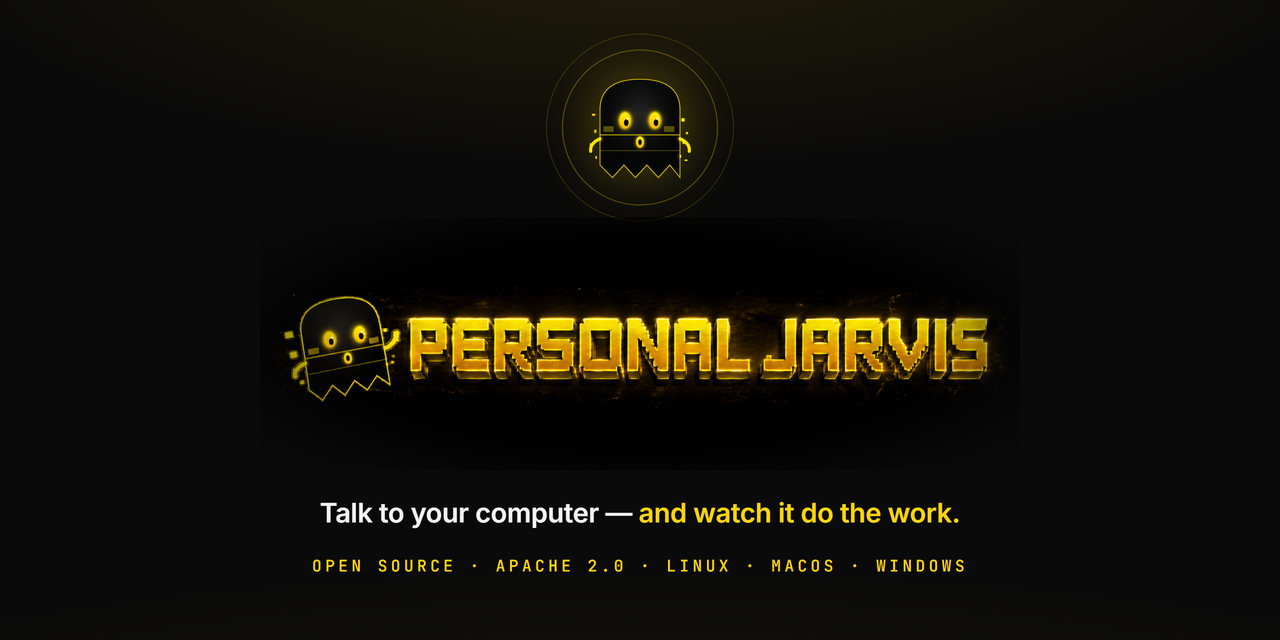
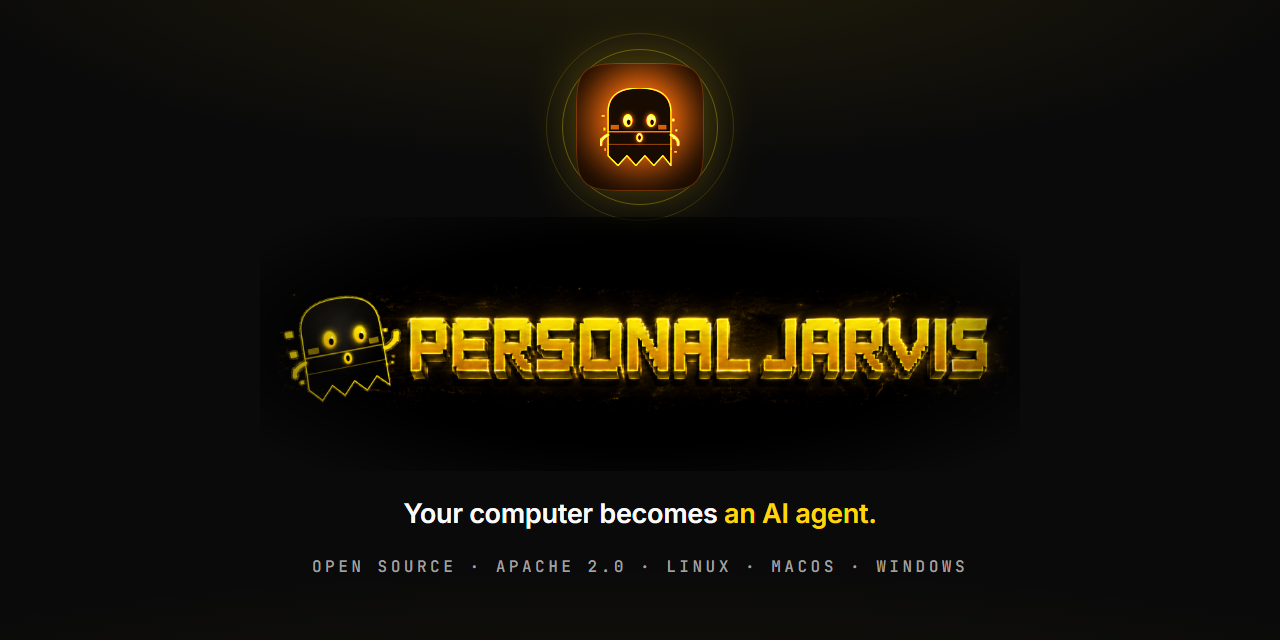
docs(readme): present Jarvis as the agent that runs your computer
Rewrite the README opening, the welcome page, the social preview and the
package, CLI and Linux desktop-entry descriptions around one line: your
computer becomes an AI agent that coordinates apps, tools, models and
other agents. Adds the request-to-result diagram and brings the public
docs manifest back in line (new welcome summary; the Screen Context page
now points at the Appshots view that replaced its deleted card).

diff --git a/assets/brand/social-preview.html b/assets/brand/social-preview.html
@@ -19,8 +19,8 @@
   .glow {
     position: absolute; inset: 0;
     background:
-      radial-gradient(ellipse 90% 55% at 50% -8%, rgba(61, 139, 255, 0.10), transparent 62%),
-      radial-gradient(ellipse 120% 40% at 50% 112%, rgba(61, 139, 255, 0.04), transparent 60%);
+      radial-gradient(ellipse 90% 55% at 50% -8%, rgba(255, 214, 10, 0.10), transparent 62%),
+      radial-gradient(ellipse 120% 40% at 50% 112%, rgba(255, 214, 10, 0.04), transparent 60%);
   }
   .card {
     position: relative;
@@ -32,13 +32,13 @@
   .mascot-wrap { position: relative; width: 128px; height: 128px; }
   .mascot-wrap .ring {
     position: absolute; border-radius: 50%;
-    border: 1px solid rgba(250, 250, 250, 0.32);
+    border: 1px solid rgba(255, 214, 10, 0.32);
   }
   .ring.r1 { inset: -14px; }
-  .ring.r2 { inset: -30px; border-color: rgba(250, 250, 250, 0.16); }
+  .ring.r2 { inset: -30px; border-color: rgba(255, 214, 10, 0.16); }
   .mascot {
     width: 128px; height: 128px; object-fit: contain;
-    filter: drop-shadow(0 0 26px rgba(61, 139, 255, 0.30));
+    filter: sepia(1) saturate(8) hue-rotate(354deg) drop-shadow(0 0 26px rgba(255, 214, 10, 0.30));
   }
   .wordmark {
     width: 760px; display: block;
@@ -53,7 +53,7 @@
     color: #FAFAFA; letter-spacing: -0.01em;
     text-align: center;
   }
-  .tagline .accent { color: #3D8BFF; }
+  .tagline .accent { color: #FFD60A; }
   .meta {
     font-family: 'JetBrains Mono', monospace;
     font-size: 16px; font-weight: 500;
@@ -71,7 +71,7 @@
       <img class="mascot" src="../icons/jarvis-gigi-256.png" alt="" />
     </div>
     <img class="wordmark" src="banner.png" alt="Personal Jarvis" />
-    <div class="tagline">Talk to your computer — <span class="accent">and watch it do the work.</span></div>
+    <div class="tagline">Your computer becomes <span class="accent">an AI agent.</span></div>
     <div class="meta">OPEN SOURCE · APACHE 2.0 · LINUX · MACOS · WINDOWS</div>
   </div>
 </body>

diff --git a/jarvis/ui/icon_utils.py b/jarvis/ui/icon_utils.py
@@ -1605,7 +1605,7 @@ def ensure_linux_desktop_entry(applications_dir: Path | None = None) -> bool:
             "[Desktop Entry]\n"
             "Type=Application\n"
             f"Name={escape_value(APP_DISPLAY_NAME)}\n"
-            "Comment=Voice-driven meta-orchestrator\n"
+            "Comment=Turn your computer into an AI agent\n"
             f"Exec={exec_value(sys.executable, ('-m', _LAUNCHER_MODULE, *_LAUNCHER_ARGS))}\n"
             f"Path={escape_value(str(PROJECT_ROOT))}\n"
             "Terminal=false\n"

diff --git a/jarvis/__main__.py b/jarvis/__main__.py
@@ -52,7 +52,7 @@ if TYPE_CHECKING:
 def _build_parser() -> argparse.ArgumentParser:
     parser = argparse.ArgumentParser(
         prog="jarvis",
-        description="Personal Jarvis — voice-driven meta-orchestrator.",
+        description="Personal Jarvis — turn your computer into an AI agent.",
     )
     parser.add_argument("--version", action="version", version=f"%(prog)s {__version__}")
     parser.add_argument("--wizard", action="store_true", help="Restart the setup wizard.")

diff --git a/packaging/linux/make_desktop_entry.py b/packaging/linux/make_desktop_entry.py
@@ -41,7 +41,7 @@ from jarvis.core.branding import (  # noqa: E402
 from jarvis.core.desktop_entry import escape_value, exec_value  # noqa: E402
 
 #: Same one-line summary the source install's menu entry uses.
-COMMENT = "Voice-driven meta-orchestrator"
+COMMENT = "Turn your computer into an AI agent"
 
 #: Freedesktop main category. "Utility" is what the source install already
 #: registers; changing it would move the app in the menu between install kinds.

diff --git a/jarvis/autostart/linux.py b/jarvis/autostart/linux.py
@@ -125,7 +125,7 @@ def _render(spec: LaunchSpec) -> str:
         "[Desktop Entry]\n"
         "Type=Application\n"
         f"Name={escape_value(_APP_NAME)}\n"
-        "Comment=Voice-driven meta-orchestrator (autostart)\n"
+        "Comment=Turn your computer into an AI agent (autostart)\n"
         f"Exec={_exec_value(spec)}\n"
         f"Path={escape_value(spec.working_dir)}\n"
         "Terminal=false\n"

diff --git a/README.md b/README.md
@@ -1,25 +1,88 @@
+# Personal Jarvis
+
+## Your computer becomes an AI agent.
+
+Personal Jarvis is an open-source desktop app that connects your computer, AI
+models, tools, services, and specialized agents. Give it a task in chat or by
+voice. Jarvis can use the browser and desktop, call connected tools, delegate
+longer work, and bring the result back to one workspace.
+
 <p align="center">
-  <img src="https://github.com/PersonalJarvis/PersonalJarvis/raw/main/assets/brand/banner.png" alt="Personal Jarvis" width="860" />
+  <a href="https://pypi.org/project/personal-jarvis/"><img alt="PyPI" src="https://img.shields.io/pypi/v/personal-jarvis?labelColor=0A0A0A&amp;color=F7F7F4" /></a>
+  <a href="https://github.com/PersonalJarvis/PersonalJarvis/blob/main/LICENSE"><img alt="Apache 2.0" src="https://img.shields.io/badge/License-Apache_2.0-F7F7F4?labelColor=0A0A0A" /></a>
+  <a href="https://github.com/PersonalJarvis/PersonalJarvis/actions/workflows/ci.yml"><img alt="CI" src="https://github.com/PersonalJarvis/PersonalJarvis/actions/workflows/ci.yml/badge.svg" /></a>
 </p>
 
-<h3 align="center">Your AI assistant, built for the agentic era.</h3>
+![Flow from a user request through Jarvis to the computer, browser, apps, agents, models, and services, then back as a result with run history.](assets/brand/request-to-result.svg)
+
+**Why it is different:** Jarvis coordinates the tools you already have. A request
+can move from voice or chat to [computer use](#computer-use-and-connected-channels),
+[Codex or Claude Code](#coding-workspace), [local or hosted models](#local-models),
+[plugins and MCP](#plugins-skills-and-mcp), or a [background agent](#jarvis-agents).
+[Memory](#memory-and-knowledge), [agent learning](#jarvis-agents), and
+[routines](#scheduled-work-and-workflows) provide context and recurring work.
+You can inspect actions, approvals, and output in the app. What runs depends on
+your setup, permissions, and the tools you connect.
+
+**Try it:** [Install on Windows, macOS, or Linux](#install) ·
+[See the app and demos](#see-it-in-action) ·
+[Read the first-run guide](#your-first-steps-in-the-desktop-app)
+
+## Install
+
+**Windows — PowerShell**
+
+```powershell
+irm https://raw.githubusercontent.com/PersonalJarvis/PersonalJarvis/main/install/install.ps1 | iex
+```
+
+**macOS and Linux**
+
+```bash
+curl -fsSL https://raw.githubusercontent.com/PersonalJarvis/PersonalJarvis/main/install/install.sh | bash
+```
+
+The installer checks Python 3.11+ and Git, offers to install missing prerequisites
+through the host package manager, installs the applicable desktop components,
+registers the desktop launcher, and opens the app. Language, wake phrase, and provider setup happen in the app.
+OS permissions and hardware capabilities affect voice and desktop control.
+Re-running the installer updates an existing installation.
+
+The idea is simple: one place on your computer where you say what you need, and it happens. You talk to Jarvis or type to it, and it works out whether to just answer, do something on your computer for you, or pass the job to an agent that keeps at it while you get on with your day. You can always see what it's doing, and it asks before it touches anything that matters.
+
+It runs on your own machine with whichever model you like, local ones included, and it's free. There's no account to create, and nothing sends your data anywhere you didn't connect yourself.
+
+## See it in action
+
+The [desktop screenshot](assets/screenshots/home-2026-09-09.webp) shows the
+workspace; the [agent demo](assets/demo/readme-2026-09/jarvis-agents-v4.mp4)
+shows a brief, progress, and output. The demos are **illustrative interface
+recreations**, not recordings of a completed live task or timing benchmarks.
+The [demo source and still previews](scripts/readme-video/README.md) explain
+what is shown.
 
 <p align="center">
-  <a href="https://github.com/PersonalJarvis/PersonalJarvis/blob/main/LICENSE"><img src="https://img.shields.io/badge/license-Apache--2.0-666666?labelColor=333333" alt="Apache 2.0 license" /></a>
-  <a href="https://github.com/PersonalJarvis/PersonalJarvis/releases/latest"><img src="https://img.shields.io/github/v/release/PersonalJarvis/PersonalJarvis?label=release&labelColor=333333&color=666666" alt="latest release" /></a>
-  <a href="https://github.com/PersonalJarvis/PersonalJarvis/stargazers"><img src="https://img.shields.io/github/stars/PersonalJarvis/PersonalJarvis?labelColor=333333&color=666666&logo=github" alt="GitHub stars" /></a>
-  <a href="https://x.com/PersonalJarvis"><img src="https://img.shields.io/badge/follow-%40PersonalJarvis-000000?logo=x&logoColor=white" alt="follow @PersonalJarvis on X" /></a>
+  <a href="assets/demo/readme-2026-09/jarvis-agents-v4.mp4">
+    <img src="assets/demo/readme-2026-09/jarvis-agents-v4.png" alt="Illustrative Jarvis Agents workspace showing a brief, agent activity, and a resulting plan" width="850" />
+  </a>
 </p>
 
-Personal Jarvis is an open-source AI assistant that runs on your own computer and that you simply talk to. Say your wake phrase and it answers out loud, works your browser and desktop apps, and runs your coding agents for you: Claude Code, Codex, OpenCode, Kimi and others sit side by side in one workspace, and you can tell any of them what to do by voice ("tell T1 to run the tests"). One app for Windows, macOS and Linux, or headless on a server.
+## One request, several ways to get it done
 
-**Voice first.** Talking is the main way you drive it. The wake phrase is detected on your own machine, and then Jarvis opens a live two-way audio session: you can interrupt it mid-sentence, and it keeps the conversation going while the actual work happens behind it. With [GPT-Live](https://github.com/PersonalJarvis/PersonalJarvis/blob/main/docs/gpt-live.md), OpenAI's realtime voice carries the conversation over WebRTC while a separate thinking model does the reasoning and the tool calls, both on the same OpenAI key and with cloud recording switched off. Gemini Live is there too. If you'd rather keep your voice at home, Jarvis installs and manages a local realtime server on your own GPU (12 GB and up) that listens, thinks through Ollama and speaks entirely on your machine, and stays warm so the next call connects right away. Whichever you pick, every action goes through the same approvals, runs exactly once even if the connection drops, and keeps going after you hang up.
+| Stage | What Jarvis connects |
+|---|---|
+| **Ask** | Start in chat or Voice Chat. Jarvis Voice separately dictates into other apps. |
+| **Act** | Use the host desktop and browser through Computer Use, or call a connected plugin, skill, CLI, or MCP tool. |
+| **Delegate** | Hand longer work to a background mission, a persistent specialist, or a Codex/Claude Code coding session when configured. Bounded parallel workers can split suitable work. |
+| **Keep context** | Use the local wiki and private agent lessons; schedule routines for recurring tasks. |
+| **Review** | Follow approvals and activity, then open the answer, file, or report in the conversation or Artifacts. |
 
-**A team of agents, not a single chatbot.** Jarvis is the one you talk to, and behind it you build a team. Each agent has its own name, instructions, memory and browser, runs its own routines on a schedule, learns from what worked in its past runs, and stops to ask you a multiple choice question when it isn't sure. You can watch them work in a small office you can walk through, and move any of them onto another computer over SSH. Coding work gets the same treatment: in the [Agentic IDE](https://github.com/PersonalJarvis/PersonalJarvis/blob/main/docs/product/extend-and-automate/agentic-ide.md) every coding agent has its own pane and, if you want, its own git worktree, and Jarvis always knows what each one is doing ("what is T2 working on?").
+The app runs on Windows, macOS, and Linux, with headless use for server-capable
+features. Desktop control needs a supported graphical session and OS permission.
+Local models and speech are optional; hosted providers and connected services
+receive the content required for their requests. See [privacy and local data](docs/product/privacy-safety-and-support/privacy-and-local-data.md).
 
-**It conducts your tools instead of replacing them.** Most AI apps want you to move into their chat and their subscription. Jarvis sits on top of what you already have: your Claude Code or Codex plan, one API key from any provider, or a local model through Ollama. It turns them into a single assistant you can talk to, and you can swap any of them without touching anything else.
-
-**How it's built.** A Python core and a React desktop app, both running locally. A small router only decides where a request goes (answer, tool, or agent) and every action passes through one executor with a risk policy (safe, monitor, ask, block), so nothing that could change your system happens without your approval, and every run is recorded. State, memory and keys stay on your machine; there is no account, no paid tier and no analytics. The whole design is in the [architecture overview](https://github.com/PersonalJarvis/PersonalJarvis/blob/main/docs/architecture-overview.md).
+## Start with chat or voice
 
 [Website](https://personaljarvis.ai) · [Docs](https://github.com/PersonalJarvis/PersonalJarvis/blob/main/docs/product/start-here/welcome-to-personal-jarvis.md) · [Getting started](https://github.com/PersonalJarvis/PersonalJarvis/blob/main/docs/product/start-here/first-run-setup.md) · [How it works](#how-it-works) · [Discord](https://discord.gg/x7USduHxbc) · [X](https://x.com/PersonalJarvis)
 
@@ -41,7 +104,49 @@ irm https://raw.githubusercontent.com/PersonalJarvis/PersonalJarvis/main/install
 curl -fsSL https://raw.githubusercontent.com/PersonalJarvis/PersonalJarvis/main/install/install.sh | bash
 ```
 
-The installer checks for Python 3.11+ and Git, offers to install what is missing, sets up the app and opens it. Run it again to update. [install options →](https://github.com/PersonalJarvis/PersonalJarvis/blob/main/install/README.md)
+For a minimal server installation, use `pip install personal-jarvis` and
+`jarvis serve`. Open the local address reported at startup; the default is
+`http://localhost:47821`. Remote browser microphone access requires HTTPS.
+See the [headless deployment guide](https://github.com/PersonalJarvis/PersonalJarvis/blob/main/docs/headless-vps-deployment.md).
+
+</details>
+
+## Jarvis Agents
+
+Build a team you can return to. Each agent has an identity, a direct conversation,
+standing instructions, and access to the tools you grant it. Pick a connected
+model or supported agent account for the work, and keep the conversations in
+one workspace.
+
+<br />
+
+<p align="center">
+  <a href="https://github.com/PersonalJarvis/PersonalJarvis/blob/main/assets/demo/readme-2026-09/jarvis-agents-v4.mp4">
+    <img src="https://github.com/PersonalJarvis/PersonalJarvis/raw/main/assets/demo/readme-2026-09/jarvis-agents-v4.gif" alt="Agents workspace recreation: send a brief, watch the live thinking trace, then read the streaming reply and completed plan" width="1000" />
+  </a>
+</p>
+
+<p align="center">
+  <sub>An illustrative agent conversation, from brief to draft. The GIF plays once and holds the reply; click to replay the video.</sub>
+</p>
+
+<br />
+
+- **Talk directly to a specialist.** Select an agent from the roster and continue its chat.
+- **Give it a standing brief.** Configure its instructions, model access, and tools.
+- **Set up recurring work.** Per-agent routines expose instructions, scheduling, and execution history.
+- **Inspect its work.** Read messages and tool activity, and open produced files in Artifacts.
+- **Explore the world view.** The workspace also has a visual map of the team.
+
+Persistent agents and isolated coding missions have different lifecycles.
+Coding missions can use worktree isolation and critic review; an ordinary
+agent chat is not a new isolated worktree on every message.
+For suitable tasks, a mission can fan out to a bounded group of child workers.
+Each child has its own result; this is controlled delegation rather than an
+unlimited self-spawning swarm.
+
+[Agent guide](https://github.com/PersonalJarvis/PersonalJarvis/blob/main/docs/product/extend-and-automate/jarvis-agents.md) ·
+[Agent learning](https://github.com/PersonalJarvis/PersonalJarvis/blob/main/docs/agent-society/self-learning.md) · [Routines](https://github.com/PersonalJarvis/PersonalJarvis/blob/main/docs/routines.md)
 
 You need Windows, macOS or Linux, plus one API key from a supported provider or a local model. A microphone helps if you want to talk to it. You don't need a GPU; speech recognition and local models run fine on a normal machine, just slower.
 
@@ -74,7 +179,12 @@ Start with a [good first issue](https://github.com/PersonalJarvis/PersonalJarvis
 
 If you are an AI agent helping with this repository, read [`AGENTS.md`](https://github.com/PersonalJarvis/PersonalJarvis/blob/main/AGENTS.md) first.
 
-## thanks
+Panes have call signs so you can address a particular session through Jarvis:
+*"Tell T1 to run the tests"* or *"What is T2 working on?"* Return to the workspace
+to inspect output, respond to a prompt, or take over manually. A terminal becoming
+idle is not proof that its result is correct; inspect its changes and validation.
+You can also send one brief to several coding panes, with a delivery result for
+each pane. This is the coding workspace's parallel-agent path.
 
 If Personal Jarvis is useful to you, a star helps other people find it. Sponsors are listed in [SPONSORS.md](https://github.com/PersonalJarvis/PersonalJarvis/blob/main/SPONSORS.md).
 

diff --git a/docs/product/start-here/welcome-to-personal-jarvis.md b/docs/product/start-here/welcome-to-personal-jarvis.md
@@ -1,7 +1,7 @@
 ---
 title: "Welcome to Personal Jarvis"
 slug: welcome-to-personal-jarvis
-summary: "Understand what Personal Jarvis can do, what stays under your control, and where to begin."
+summary: "See how Jarvis turns your computer into an AI agent, what stays under your control, and where to begin."
 section: "Start here"
 section_order: 1
 order: 1
@@ -15,13 +15,13 @@ tags: [overview, getting-started, privacy, safety]
 related: [install-personal-jarvis, desktop-app-tour, start-your-first-chat]
 ---
 
-Personal Jarvis is an open-source assistant you can use in its desktop window
-or through its browser interface. You choose how it reasons, which services it
-can reach, and which device permissions it receives.
+Personal Jarvis turns your computer into an AI agent. Give it a task in chat or
+by voice. It can use the desktop and browser on its host, call connected tools,
+delegate longer work to specialized agents, and return results in one workspace.
+You choose the models, services, and device permissions it can use.
 
-You can begin with one working chat provider or a local model. Voice, connected
-services, long-running Agents, knowledge, and computer control are optional
-capabilities you can add when you need them.
+Start with one working chat provider or local model. Add computer control,
+voice, connected services, agents, and recurring work as you need them.
 
 Several visible labels follow the assistant name you chose, including the
 Agents area and Voice hub. This guide uses the neutral words **assistant**,
